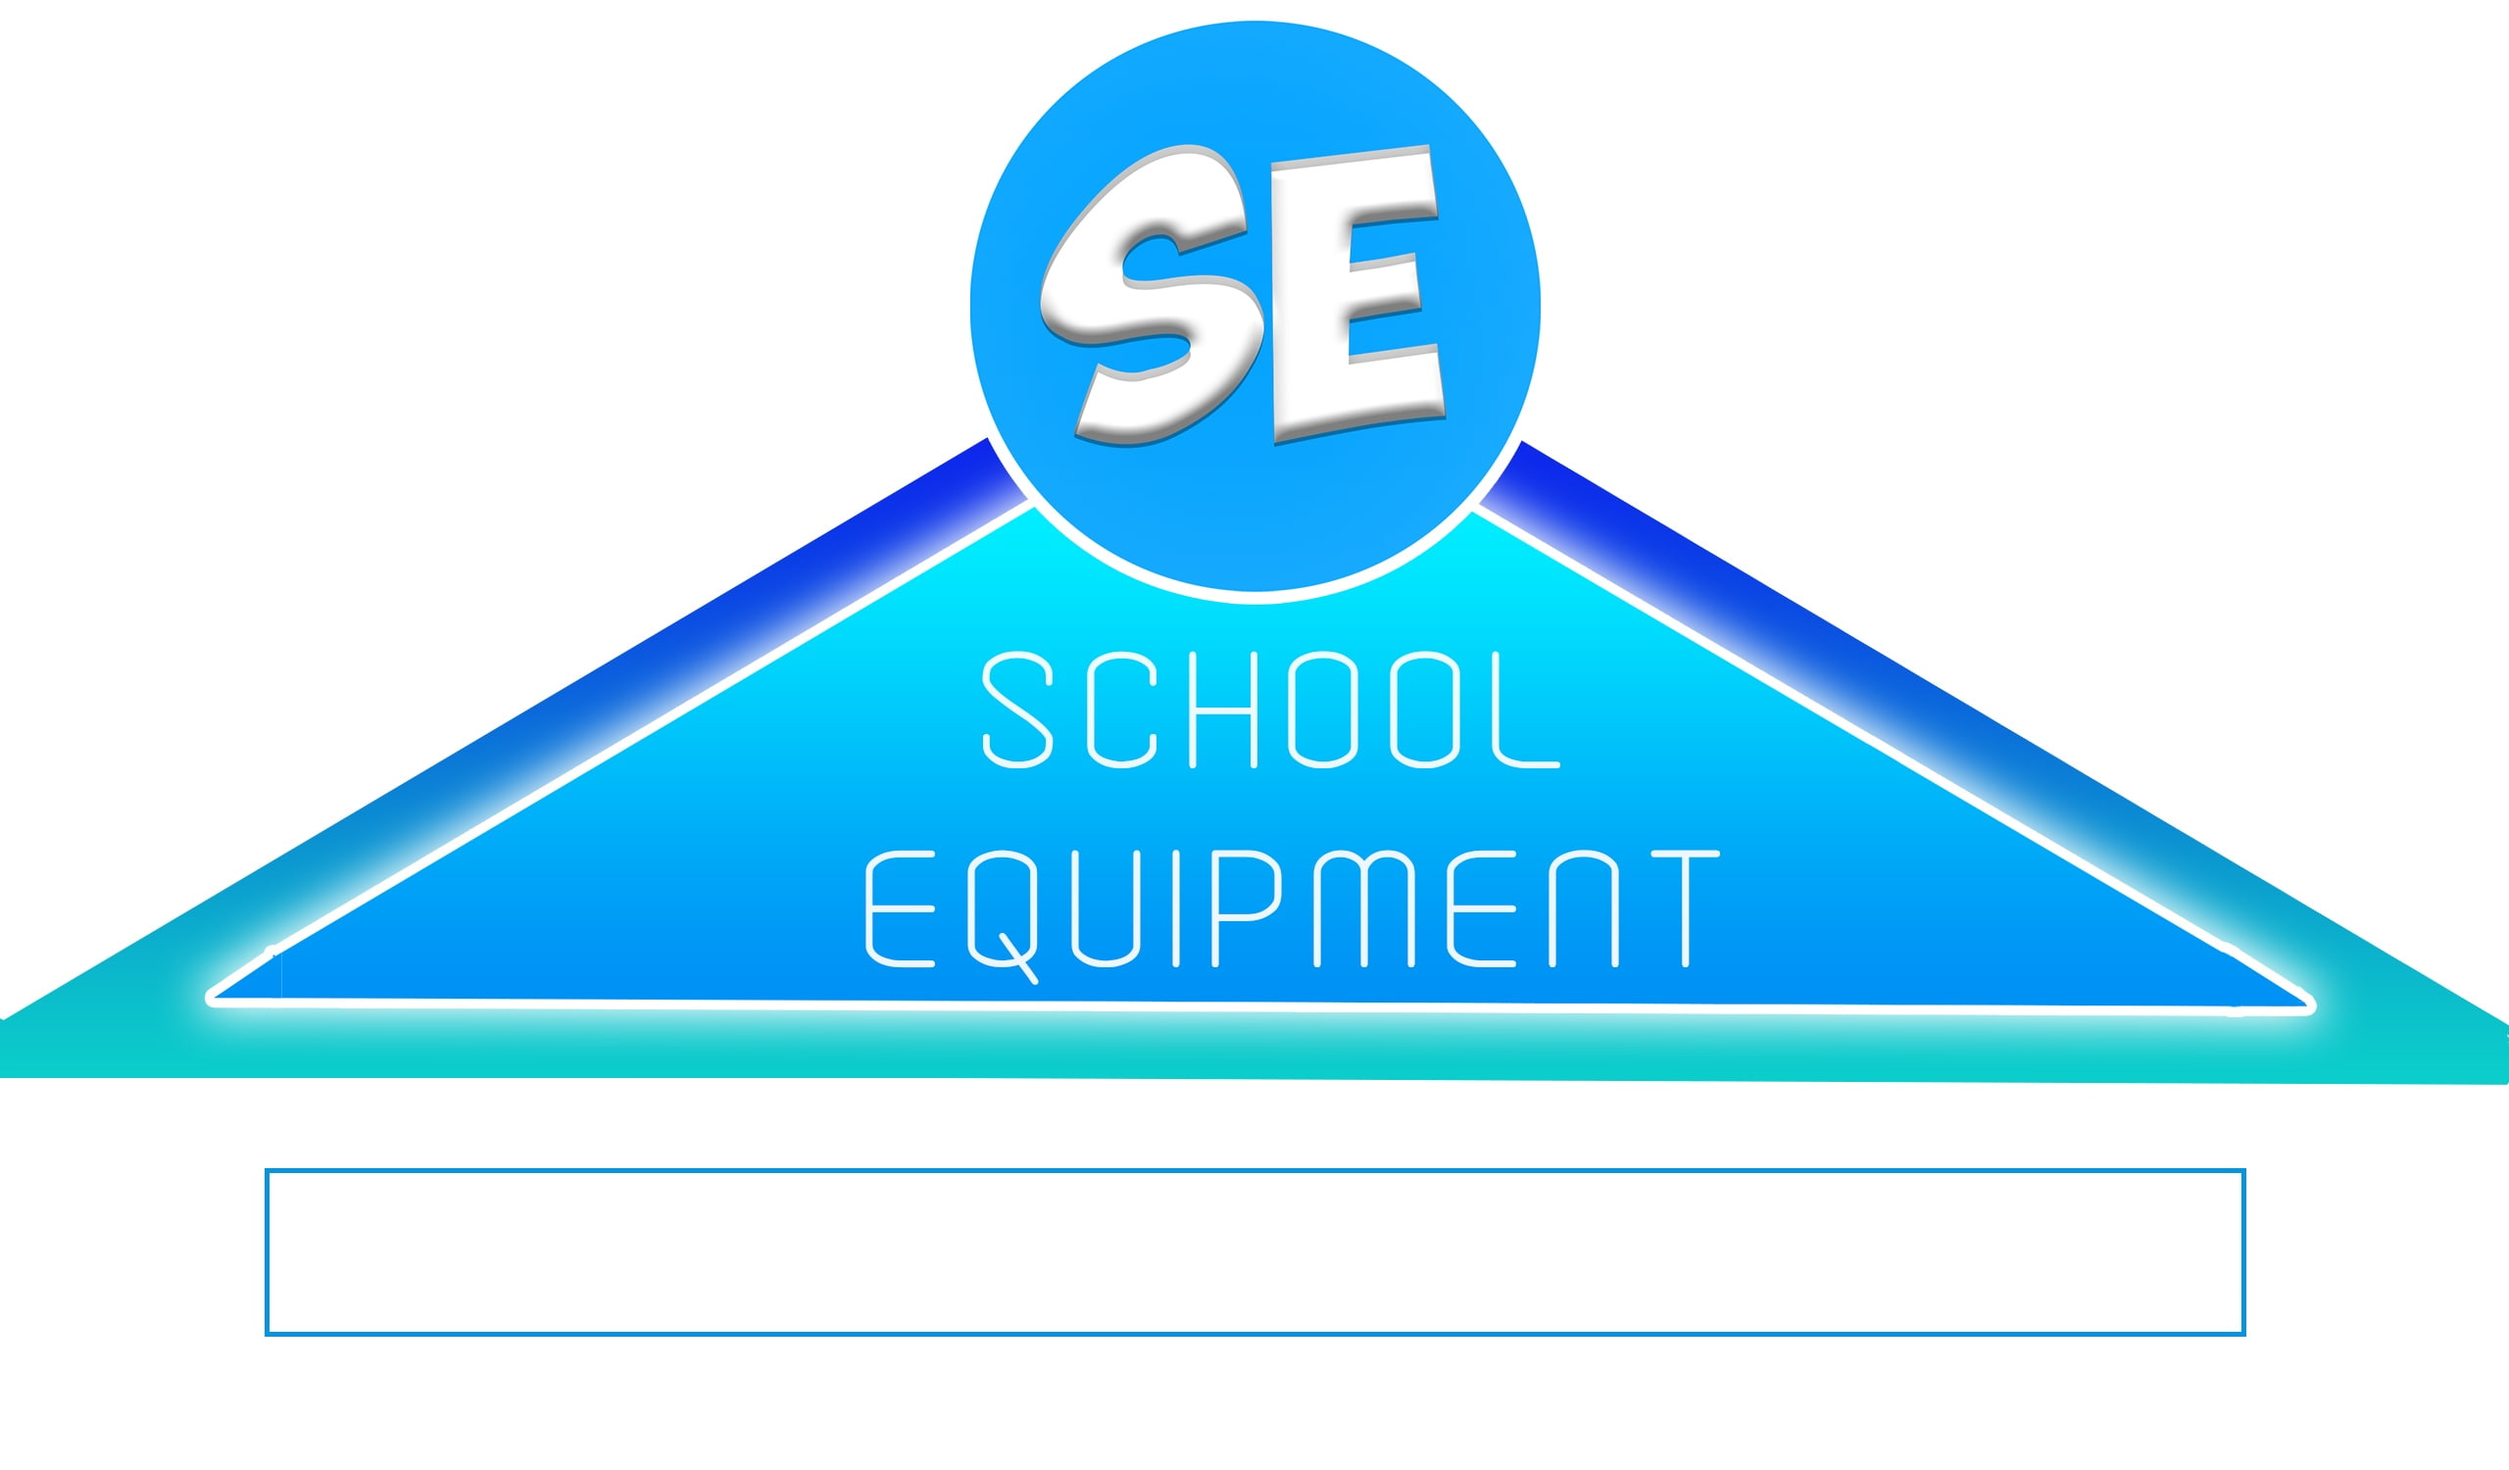
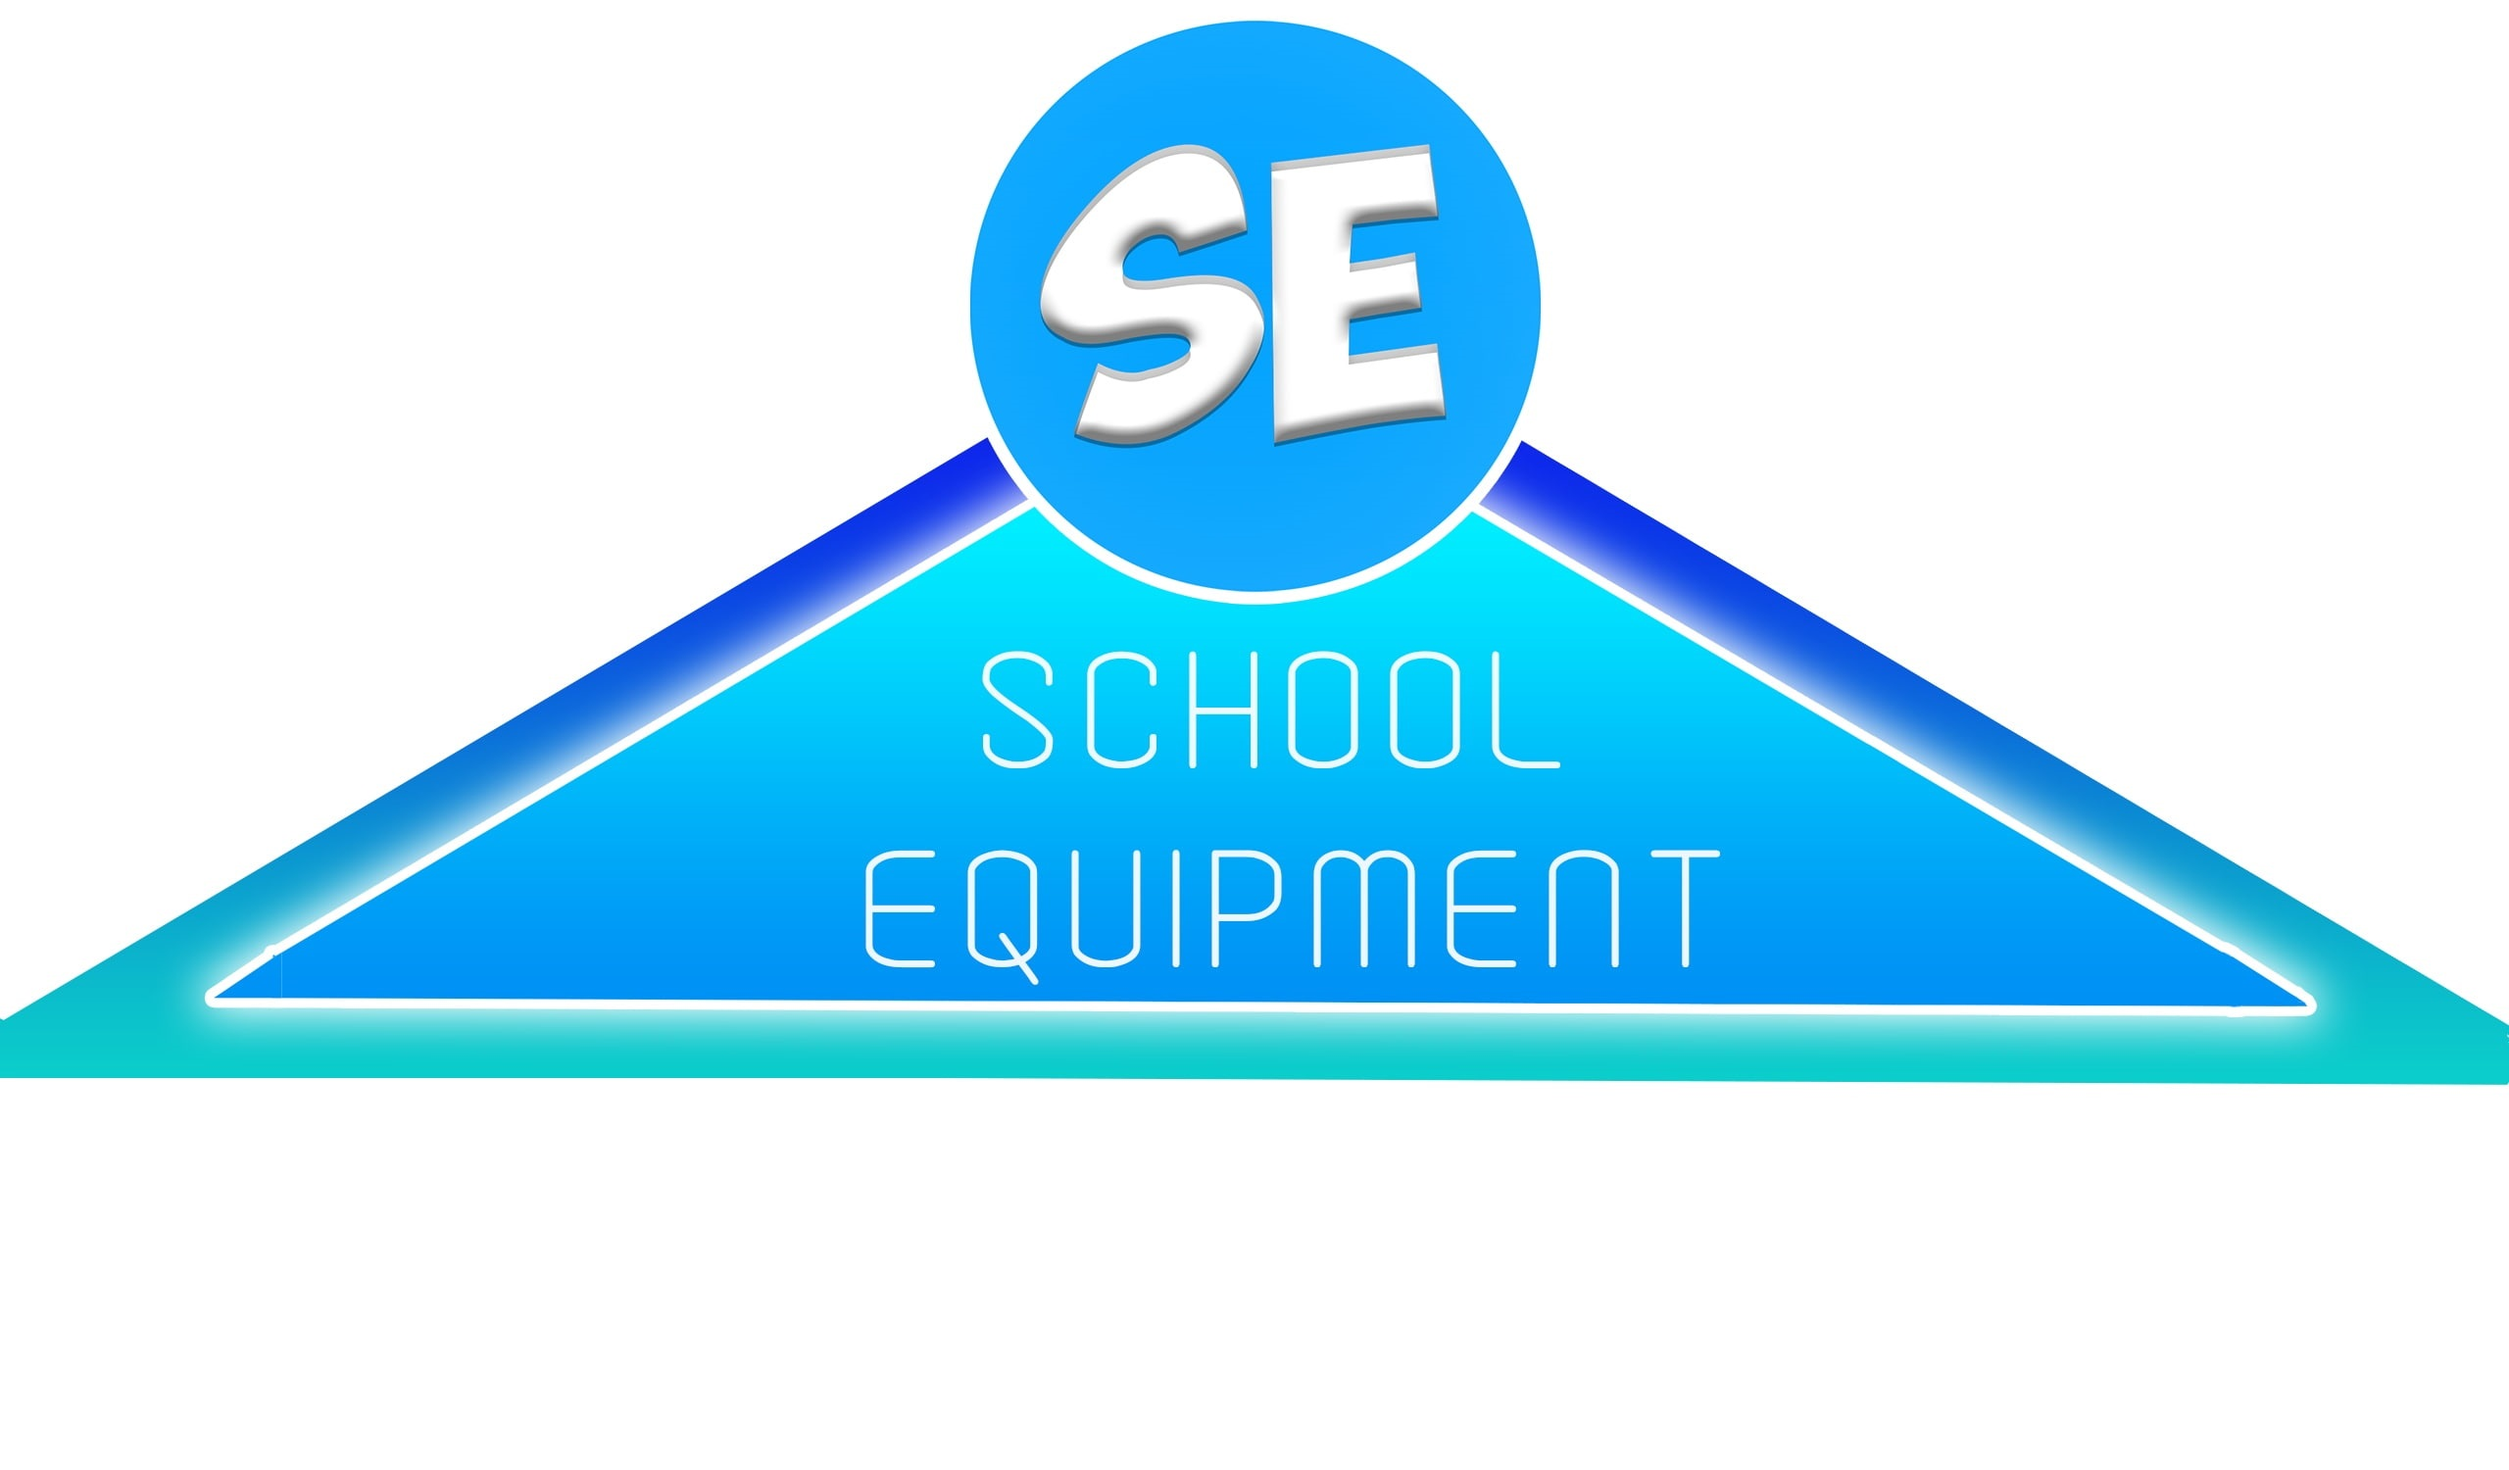
Kazhetsa realno sait podnimayetsa

Changed region(s): [[0.0938, 0.8893, 0.9062, 0.92], [0.875, 0.7973, 0.9062, 0.828], [0.0938, 0.7973, 0.125, 0.828]]

diff --git a/index.html b/index.html
@@ -12,6 +12,7 @@
 </head>
 <body>
         <div id="greatcontainer">
+            <div id="colorwhite" style="background-color: rgb(255, 255, 255);">
     <header class="header">
         <!--<div id="firstheadline-container">
             <h1>Плачущий Кот с Машинками</h1>
@@ -141,7 +142,9 @@
         <p style="text-align: center; color:aliceblue; margin-top: -2%;">Данный взяты за 2019г.</p>
     </main>
     <footer>
+        <img src="img/background-bottom.jpg" style="width: 100%;">
     </footer>
+    </div>
 </div>
 
 <script>

diff --git a/index.css b/index.css
@@ -30,17 +30,18 @@ main{
 }
 footer{
     width: 100%;
-    height: 710px;
+    height: 8%;
     background: url(img/background-bottom.jpg);
     background-size: contain;
     background-repeat: no-repeat;
 }
 #search{
     position: absolute;
-    bottom: 165px;
+    bottom: 25%;
     left: 389px;
     height: 77px;
     font-size: 300%;
+    border: rgba(12, 176, 218, 0.384) 4px solid;
 }
 #mytable{
     border: black 3px inset;
